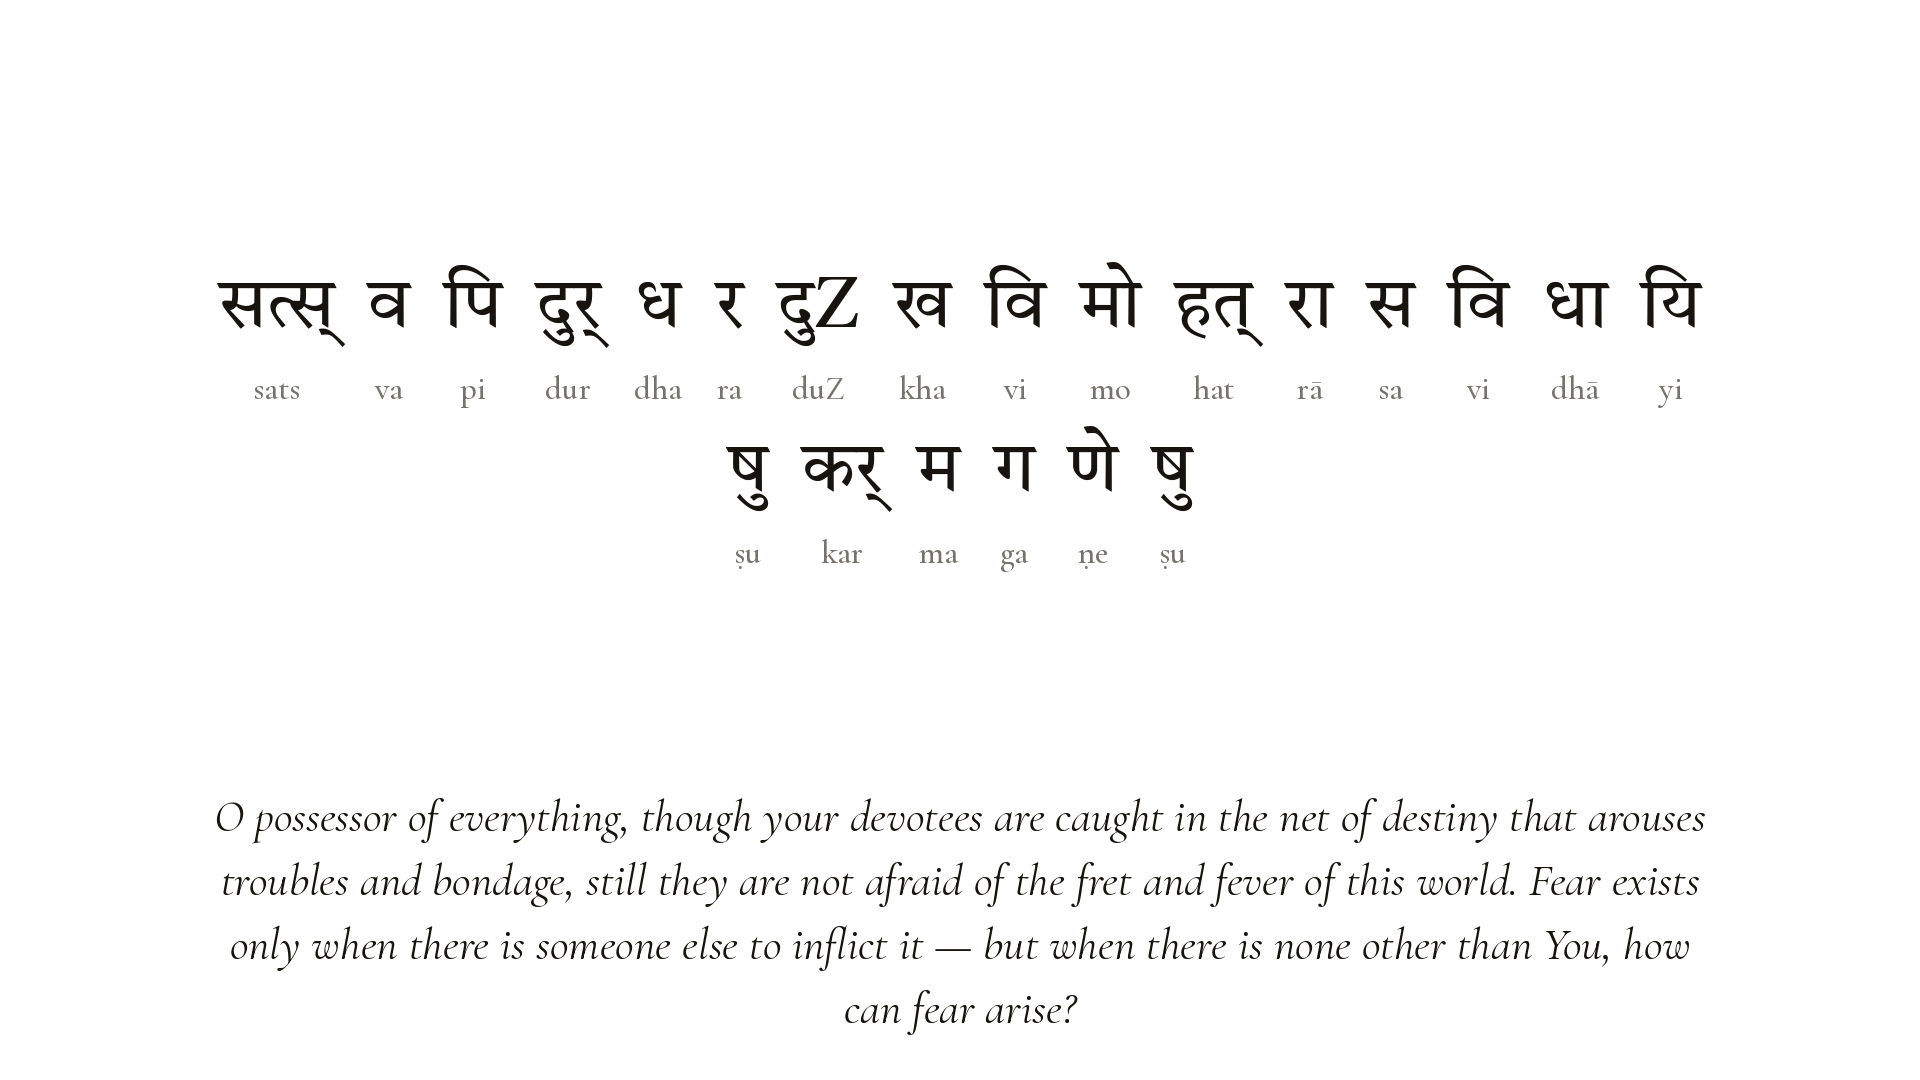
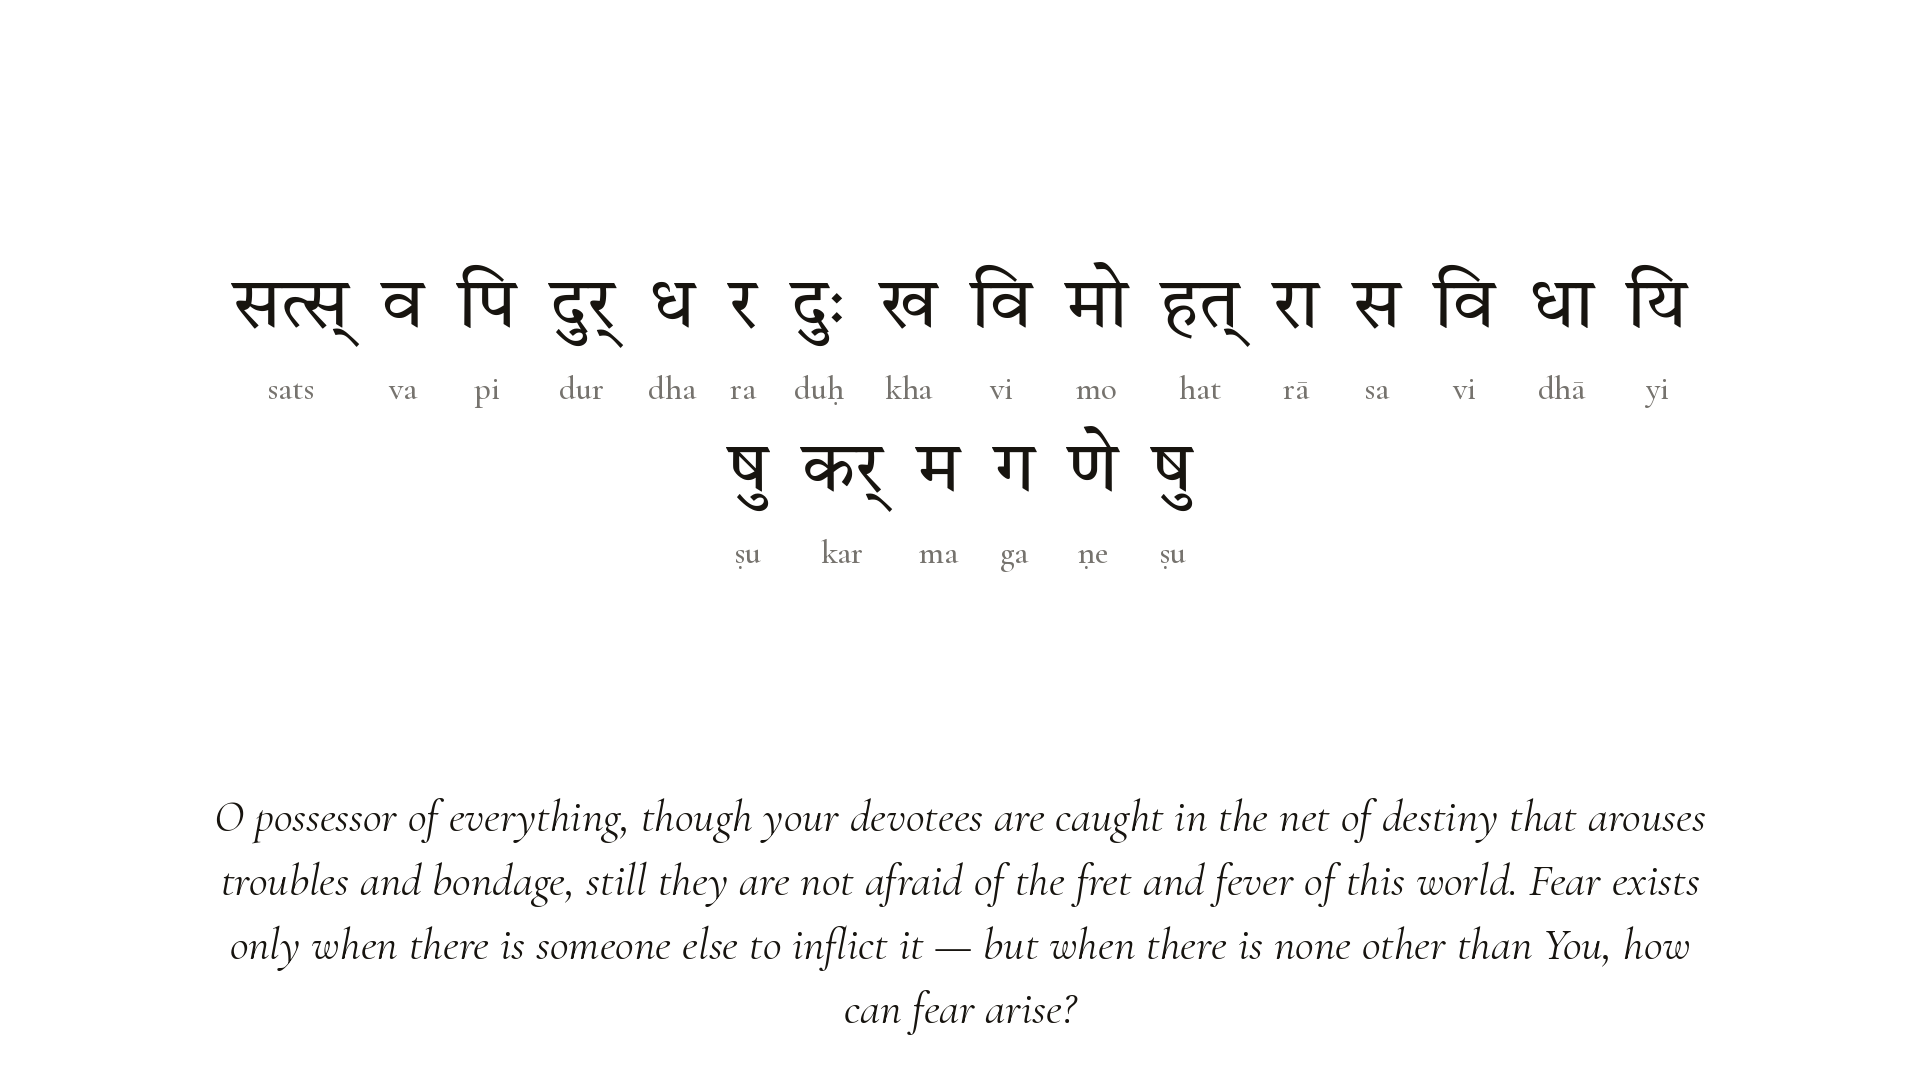
Transition pattern (page-in 0.28s before beat), jihvamuliya Z display fix, storyboard mode

diff --git a/make_card.py b/make_card.py
@@ -28,6 +28,8 @@ EN_Y = 790        # English base, 1 step lower than approved 760
 EN_W = W - 400
 GAP = 34          # gap between ruby syllable pairs
 SK_TOP, SK_SPAN = 90, 670   # Sanskrit block centers within [90, 760]
+LEAD = 0.28       # transition pattern: new page cuts in 0.28s BEFORE its first
+                  # syllable's voice beat (page pale -> word lights ON the beat)
 
 def bounds_check(im, tag):
     """Mistake-log rule: no dark pixels may touch frame edges."""
@@ -71,6 +73,18 @@ def main():
     en_y = min(EN_Y, H - en_h - 36)
     assert en_y >= 700, f"English block too tall for frame: {en_h}px (id={id_})"
 
+    # ── transition pattern: page cuts in LEAD before its first voice beat,
+    # so every page boundary is identical: new page PALE -> word ON at beat.
+    firsts = {p: next(s for s in syls if s["pada"] == p)["t_on"] for p in padas}
+    switches = {p: max(0.0, firsts[p] - LEAD) for p in padas}
+    print(f"[{id_}] rhythm pattern ({len(padas)} pages, lead={LEAD}s):")
+    for i in range(1, len(padas)):
+        pp, np_ = padas[i - 1], padas[i]
+        prev_end = max(s["t_off"] for s in syls if s["pada"] == pp)
+        warn = "  !!PREV STILL LIT AT CUT" if prev_end > switches[np_] else ""
+        print(f"  p{pp}->p{np_}: cut@{switches[np_]:.2f} | pale->lit beat {firsts[np_]:.2f}"
+              f" | prev ends {prev_end:.2f}{warn}")
+
     def ctext(d, s, ft, y, fill=INK):
         d.text(((W - ft.getlength(s)) / 2, y), s, font=ft, fill=fill)
 
@@ -78,10 +92,9 @@ def main():
         return max(tmp.textlength(s["d"], font=fd), tmp.textlength(s["r"], font=fr))
 
     def slide(t):
-        api = 0
+        api = padas[0]
         for p in padas:
-            first = next(s for s in syls if s["pada"] == p)
-            if first["t_on"] <= t:
+            if switches[p] <= t:
                 api = p
         cur_s = [s for s in syls if s["pada"] == api]
         rows, row, roww = [], [], 0
@@ -127,6 +140,37 @@ def main():
         im, api, lit = slide(t)
         im.save(outd / f"{tag}.png")
         allok &= bounds_check(im, tag)
+    # ── STORYBOARD (transitions reviewed before any render) ──
+    if "--storyboard" in sys.argv and not do_render:
+        cells = []
+        for i in range(1, len(padas)):
+            pp, np_ = padas[i - 1], padas[i]
+            sw, fo = switches[np_], firsts[np_]
+            cells.append((f"t={sw-0.06:.2f} cut-0.06 · p{pp} FULL LIT", sw - 0.06))
+            cells.append((f"t={sw+0.06:.2f} cut+0.06 · p{np_} PALE (page in)", sw + 0.06))
+            cells.append((f"t={fo+0.10:.2f} beat+0.10 · p{np_} 1st word LIT", fo + 0.10))
+        cells.append((f"t={dur*0.4:.2f} reference · mid-frame", dur * 0.4))
+        try:
+            capf = ImageFont.truetype("/usr/share/fonts/truetype/dejavu/DejaVuSans.ttf", 19)
+        except OSError:
+            capf = ImageFont.load_default()
+        cw, chh, cap, cols = 640, 360, 30, 3
+        rn = (len(cells) + cols - 1) // cols
+        sheet = Image.new("RGB", (cols * cw, rn * (chh + cap)), (250, 250, 250))
+        dr = ImageDraw.Draw(sheet)
+        allok = True
+        for k, (label, t) in enumerate(cells):
+            im, _, _ = slide(t)
+            allok &= bounds_check(im, f"{id_}#{k}")
+            sheet.paste(im.resize((cw, chh)), ((k % cols) * cw, (k // cols) * (chh + cap) + cap))
+            dr.text(((k % cols) * cw + 8, (k // cols) * (chh + cap) + 5), label, font=capf, fill=INK)
+        sp = outd / f"{id_}_storyboard.png"
+        sheet.save(sp)
+        print("STORYBOARD:", sp, "->", "ALL OK" if allok else "BOUNDS FAIL — DO NOT RENDER")
+        if not allok:
+            sys.exit(2)
+        return
+
     if not do_render:
         print("STILLS ONLY (no video):", [str(outd / f"{t[0]}.png") for t in still_t])
         if not allok:
@@ -134,7 +178,7 @@ def main():
         return
 
     # ── RENDER (explicit --render, only after stills approved) ──
-    bounds = sorted({0.0, dur} | {s["t_on"] for s in syls})
+    bounds = sorted({0.0, dur} | set(switches.values()) | {s["t_on"] for s in syls})
     fdir = outd / f"{id_}_frames"
     import shutil
     shutil.rmtree(fdir, ignore_errors=True); fdir.mkdir(parents=True)

diff --git a/regen_syls.py b/regen_syls.py
@@ -15,7 +15,11 @@ from tts_weight import tag_weights
 AUD = "/home/ubuntu/kashmir_audio"
 
 def pada_syllables(pada_text):
-    syls = syllabify(to_slp1(normalize(pada_text)))
+    # normalize() emits jihvāmūlīya/upadhmānīya (ᳵᳶ) before k/p; SLP1 maps them
+    # to Z/z which the display path renders as literal ASCII — restore plain visarga
+    # (matches source Devanagari and fixes the guru-via-visarga weight rule too).
+    t = normalize(pada_text).replace("ᳵ", "ः").replace("ᳶ", "ः")
+    syls = syllabify(to_slp1(t))
     tag_weights(syls)
     return syls
 
